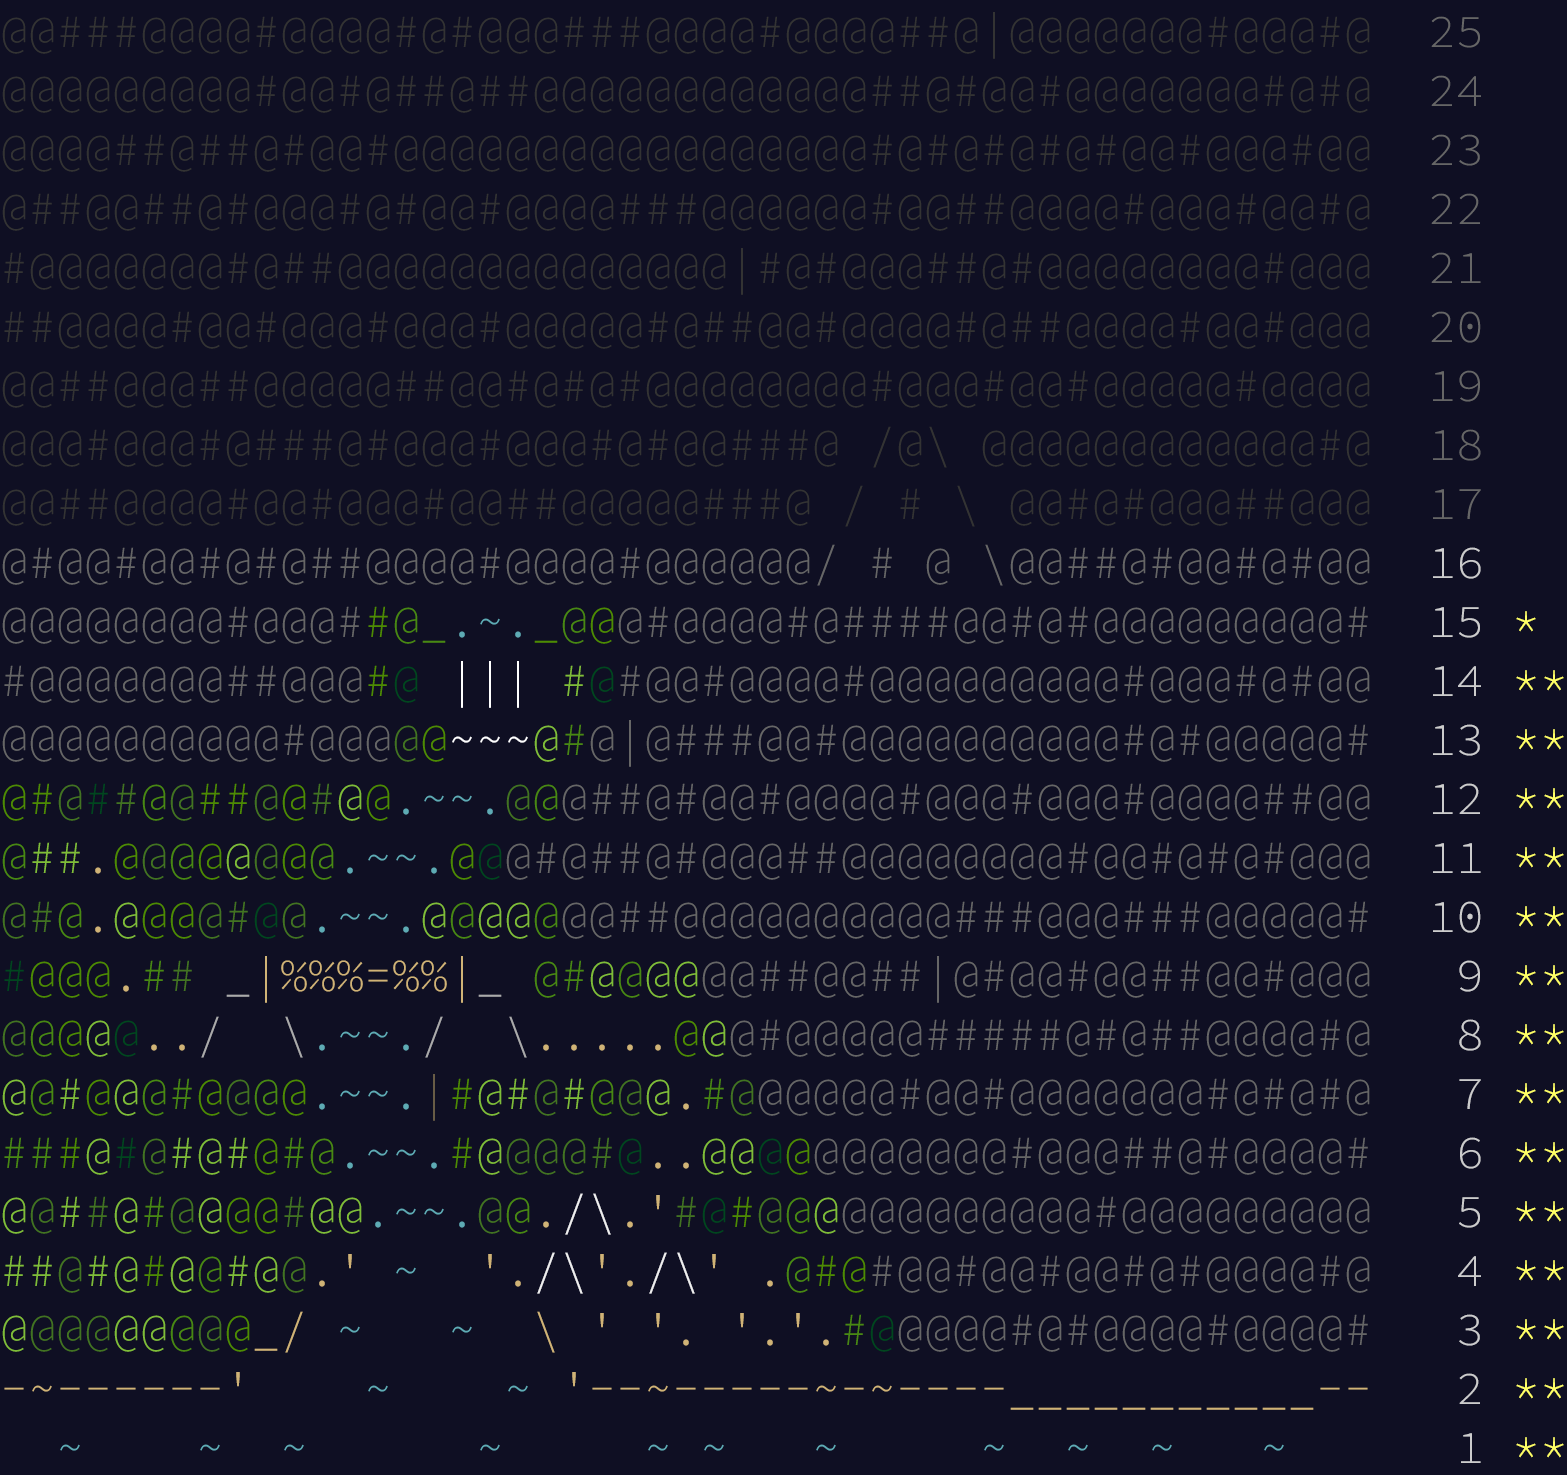
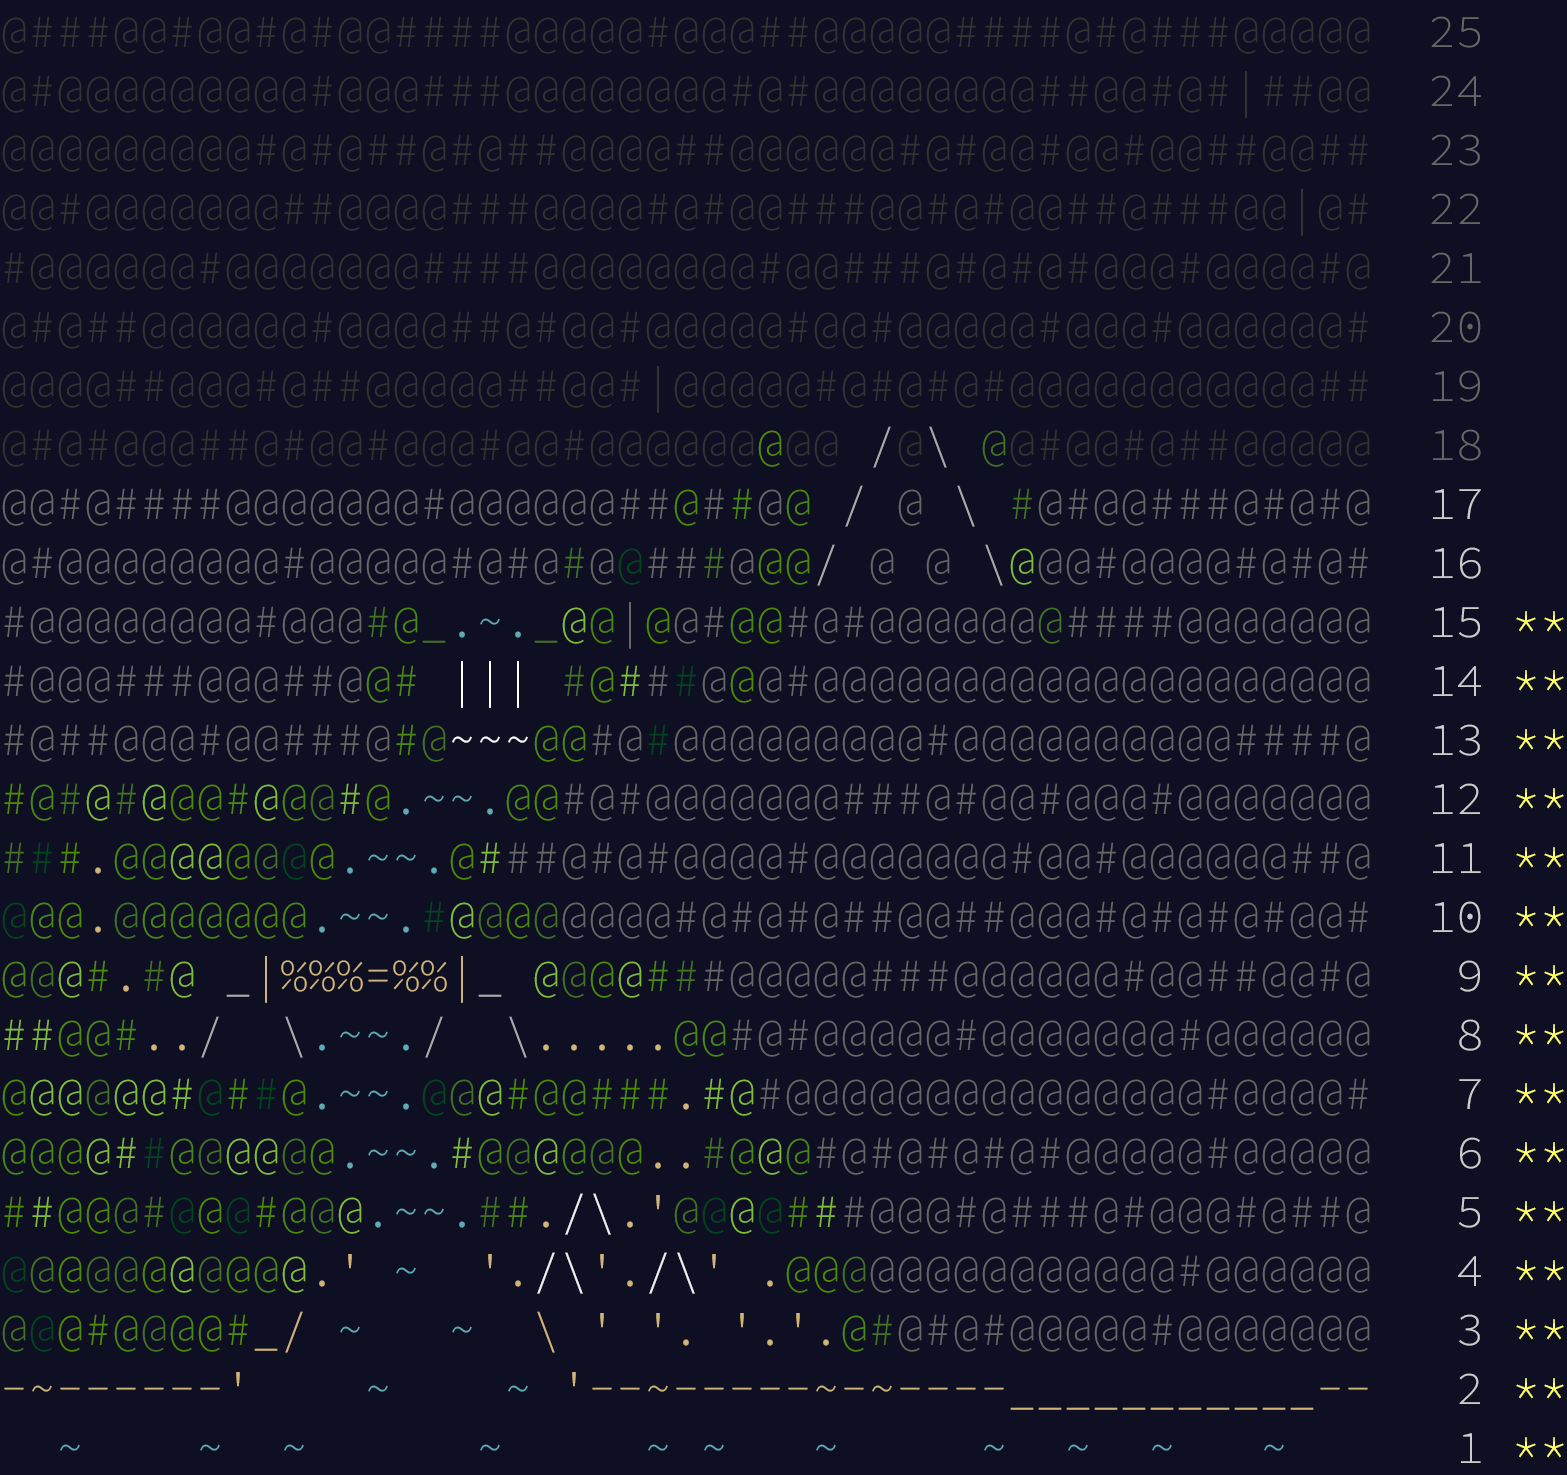
rust: 2022.15, part 2: solve

diff --git a/2022/rust/src/aoc15.rs b/2022/rust/src/aoc15.rs
@@ -1,3 +1,4 @@
+use std::cmp::{max, min};
 use std::collections::HashSet;
 use std::str::FromStr;
 
@@ -86,19 +87,60 @@ where
         let readings = input
             .map(str::parse::<Reading>)
             .map(Result::ok)
-            .map(|r| r.map(|r| (manhattan_distance(&r.sensor, &r.beacon), r)))
+            .map(|r| r.map(|r| (manhattan_distance(&r.sensor, &r.beacon), r.sensor)))
             .collect::<Option<Vec<_>>>()?;
 
-        // O(x * y * r), too slow
-        let beacon = (0..=Self::MAX)
-            .flat_map(|x| (0..=Self::MAX).map(move |y| (x, y) as Position))
-            .find(|p| {
-                readings
-                    .iter()
-                    .all(|(d, r)| manhattan_distance(p, &r.sensor) > *d)
-            })?;
+        let check = |x, y| {
+            let p = (x, y);
+            if readings.iter().all(|(d, r)| manhattan_distance(r, &p) > *d) {
+                return Some(p.0 as usize * 4_000_000 + p.1 as usize);
+            }
+            None
+        };
 
-        Some((beacon.0 * 4_000_000 + beacon.1) as usize)
+        for (distance, sensor) in &readings {
+            let distance = *distance as i32;
+            for x in max(0, sensor.0)..=min(Self::MAX, sensor.0 + 1 + distance) {
+                let x_i = x - sensor.0;
+
+                let y_min = sensor.1 + x_i - 1 - distance;
+                if y_min < 0 {
+                    continue;
+                }
+                if let Some(result) = check(x, y_min) {
+                    return Some(result);
+                }
+
+                let y_max = sensor.1 - x_i + 1 + distance;
+                if y_max > Self::MAX {
+                    break;
+                }
+                if let Some(result) = check(x, y_max) {
+                    return Some(result);
+                }
+            }
+            for x in max(0, sensor.0 - distance - 1)..=min(Self::MAX, sensor.0 - 1) {
+                let x_i = x - (sensor.0 - distance - 1);
+
+                let y_min = sensor.1 - x_i;
+                if y_min < 0 {
+                    continue;
+                }
+                if let Some(result) = check(x, y_min) {
+                    return Some(result);
+                }
+
+                let y_max = sensor.1 + x_i;
+                if y_max > Self::MAX {
+                    break;
+                }
+                if let Some(result) = check(x, y_max) {
+                    return Some(result);
+                }
+            }
+        }
+
+        None
     }
 }
 

diff --git a/2022/README.md b/2022/README.md
@@ -7,10 +7,10 @@
 @###@@@@@@@@@#@###@@@#@@@#@#@@@@@#@##@#@@@##@@###  21
 #@#@##@@##@@@#@@@#@@#@@#@@#@#@#@@##@@@@@@@#@#@@#@  20
 @@@#@@#@@#@#@#@@@@#@@##@@@@@#@@@@####@@@@#@@##@@@  19
-@@@#@@@#@###@#@@@#@@@#@#@@###@ /@\ @@@@@@@@@@@@#@  18
-@@##@@@@#@@#@@@#@@##@@@@@###@ / # \ @@#@#@@@##@@@  17
-@#@@#@@#@#@##@@@@#@@@@#@@@@@@/ # @ \@@##@#@@#@#@@  16
-@@@@@@@@#@@@##@_.~._@@@#@@@@#@####@@#@#@@@@@@@@@#  15 *
+@#@#@@@##@#@@#@@@#@@#@@@@@@@@@ /@\ @@#@@#@##@@@@@  18
+@@#@####@@@@@@@#@@@@@@##@##@@ / @ \ #@#@@###@#@#@  17
+@#@@@@@@@@#@@@@@#@#@#@@###@@@/ @ @ \@@@#@@@@#@#@#  16
+#@@@@@@@@#@@@#@_.~._@@|@@#@@#@#@@@@@@@####@@@@@@@  15 **
 @@##@@##@@@@@## ||| #@##@@@#@#@@@|@##@#@@#@@@#@@@  14 **
 @@#@#@######@@#@~~~@@@#@###@@#@@@#@@@#@@#@@@@#@@@  13 **
 @#@@@@#@@@@@@@.~~.@#@@@##@@#@@@@@#@#@####@##@@#@@  12 **
@@ -27,4 +27,4 @@
   ~    ~  ~      ~     ~ ~   ~     ~  ~  ~   ~      1 **
 ```
 
-![Calendar after day 15, part 1](calendar.png)
+![Calendar after day 15](calendar.png)
